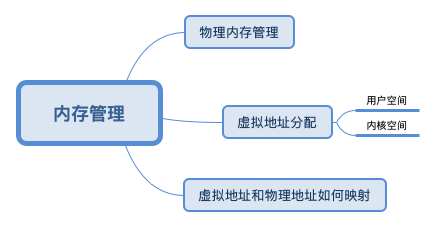
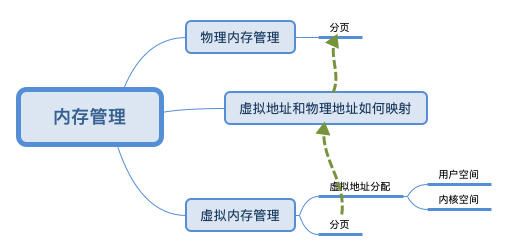
[fix]fix doc

diff --git a/_posts/Technology/Linux/2019-05-31-linux_memory.md b/_posts/Technology/Linux/2019-05-31-linux_memory.md
@@ -1,7 +1,7 @@
 ---
 
 layout: post
-title: Linux内核基础知识
+title: Linux内存管理
 category: 技术
 tags: Linux
 keywords: linux 内核
@@ -60,162 +60,6 @@ keywords: linux 内核
 [线程创建的成本](http://qiankunli.github.io/2014/10/09/Threads.html)
 
 [线程切换的成本](http://qiankunli.github.io/2018/01/07/hardware_software.html)
-
-## 内存管理
-
-对于内存的访问，用户态的进程使用虚拟地址，内核的也基本都是使用虚拟地址
-
-![](/public/upload/linux/linux_memory_management.png)
-
-### 物理内存空间管理
-
-![](/public/upload/linux/linux_physical_memory.jpg)
-
-### 虚拟内存与物理内存的映射
-
-|页面|用户态|内核态|备注|
-|---|---|---|---|
-|在哪|mm_struct|mm_struct|
-|地址映射方式|走四级页表来翻译|线性映射|内核空间也必须有一部分是非线性映射，比如下图的vmalloc|
-|何时创建|随进程创建产生|内核在初始化时，就创建内核空间的映射，所有进程共享|
-
-“进程独占内存”的内涵：每个进程有自己独立的页表映射，当然内核地址空间是一样的，页表映射也是共享的，在创建进程时候，就可以直接“拷贝”内核的页表，作为该进程 的页表的一部分。进程用户地址空间部分另外映射。
-
-
-如果是用户态进程页表，会有 mm_struct 指向进程顶级目录 pgd，对于内核来讲，也定义了一个 mm_struct，指向 swapper_pg_dir（指向内核最顶级的目录 pgd）。
-
-    struct mm_struct init_mm = {
-        .mm_rb		= RB_ROOT,
-        // pgd 页表最顶级目录
-        .pgd		= swapper_pg_dir,
-        .mm_users	= ATOMIC_INIT(2),
-        .mm_count	= ATOMIC_INIT(1),
-        .mmap_sem	= __RWSEM_INITIALIZER(init_mm.mmap_sem),
-        .page_table_lock =  __SPIN_LOCK_UNLOCKED(init_mm.page_table_lock),
-        .mmlist		= LIST_HEAD_INIT(init_mm.mmlist),
-        .user_ns	= &init_user_ns,
-        INIT_MM_CONTEXT(init_mm)
-    };
-
-cr3 是 CPU 的一个寄存器，它会指向当前进程的顶级 pgd。如果 CPU 的指令要访问进程的虚拟内存，它就会自动从cr3 里面得到 pgd 在物理内存的地址，然后根据里面的页表解析虚拟内存的地址为物理内存，从而访问真正的物理内存上的数据。
-
-这里需要注意两点。第一点，cr3 里面存放当前进程的顶级 pgd，这个是硬件的要求。cr3 里面需要存放 pgd 在物理内存的地址，不能是虚拟地址。第二点，用户进程在运行的过程中，访问虚拟内存中的数据，会被 cr3 里面指向的页表转换为物理地址后，才在物理内存中访问数据，这个过程都是在用户态运行的，地址转换的过程无需进入内核态。
-
- 内存管理并不直接分配物理内存，只有等你真正用的那一刻才会开始分配。只有访问虚拟内存的时候，发现没有映射多物理内存，页表也没有创建过，才触发缺页异常。进入内核调用 do_page_fault，一直调用到 __handle_mm_fault，__handle_mm_fault 调用 pud_alloc 和 pmd_alloc，来创建相应的页目录项，最后调用 handle_pte_fault 来创建页表项。
-
-    static noinline void
-    __do_page_fault(struct pt_regs *regs, unsigned long error_code,
-            unsigned long address){
-        struct vm_area_struct *vma;
-        struct task_struct *tsk;
-        struct mm_struct *mm;
-        tsk = current;
-        mm = tsk->mm;
-        // 判断缺页是否发生在内核
-        if (unlikely(fault_in_kernel_space(address))) {
-            if (vmalloc_fault(address) >= 0)
-                return;
-        }
-        ......
-        // 找到待访问地址所在的区域 vm_area_struct
-        vma = find_vma(mm, address);
-        ......
-        fault = handle_mm_fault(vma, address, flags);
-        ......
-
-    static int __handle_mm_fault(struct vm_area_struct *vma, unsigned long address,
-            unsigned int flags){
-        struct vm_fault vmf = {
-            .vma = vma,
-            .address = address & PAGE_MASK,
-            .flags = flags,
-            .pgoff = linear_page_index(vma, address),
-            .gfp_mask = __get_fault_gfp_mask(vma),
-        };
-        struct mm_struct *mm = vma->vm_mm;
-        pgd_t *pgd;
-        p4d_t *p4d;
-        int ret;
-        pgd = pgd_offset(mm, address);
-        p4d = p4d_alloc(mm, pgd, address);
-        ......
-        vmf.pud = pud_alloc(mm, p4d, address);
-        ......
-        vmf.pmd = pmd_alloc(mm, vmf.pud, address);
-        ......
-        return handle_pte_fault(&vmf);
-    }
-
-以handle_pte_fault 的一种场景 do_anonymous_page为例：先通过 pte_alloc 分配一个页表项，然后通过 alloc_zeroed_user_highpage_movable 分配一个页，接下来要调用 mk_pte，将页表项指向新分配的物理页，set_pte_at 会将页表项塞到页表里面。
-
-    static int do_anonymous_page(struct vm_fault *vmf){
-        struct vm_area_struct *vma = vmf->vma;
-        struct mem_cgroup *memcg;
-        struct page *page;
-        int ret = 0;
-        pte_t entry;
-        ......
-        if (pte_alloc(vma->vm_mm, vmf->pmd, vmf->address))
-            return VM_FAULT_OOM;
-        ......
-        page = alloc_zeroed_user_highpage_movable(vma, vmf->address);
-        ......
-        entry = mk_pte(page, vma->vm_page_prot);
-        if (vma->vm_flags & VM_WRITE)
-            entry = pte_mkwrite(pte_mkdirty(entry));
-        vmf->pte = pte_offset_map_lock(vma->vm_mm, vmf->pmd, vmf->address,
-                &vmf->ptl);
-        ......
-        set_pte_at(vma->vm_mm, vmf->address, vmf->pte, entry);
-        ......
-    }
-
-
-### 进程“独占”虚拟内存及虚拟内存划分
-
-为了保证操作系统的稳定性和安全性。用户程序不可以直接访问硬件资源，如果用户程序需要访问硬件资源，必须调用操作系统提供的接口，这个调用接口的过程也就是系统调用。每一次系统调用都会存在两个内存空间之间的相互切换，通常的网络传输也是一次系统调用，通过网络传输的数据先是从内核空间接收到远程主机的数据，然后再**从内核空间复制到用户空间**，供用户程序使用。这种从内核空间到用户空间的数据复制很费时，虽然保住了程序运行的安全性和稳定性，但是牺牲了一部分的效率。
-
-如何分配用户空间和内核空间的比例也是一个问题，是更多地分配给用户空间供用户程序使用，还是首先保住内核有足够的空间来运行。在当前的Windows 32位操作系统中，默认用户空间：内核空间的比例是1:1，而在32位Linux系统中的默认比例是3:1（3GB用户空间、1GB内核空间）（这里只是地址空间，映射到物理地址，可没有某个物理地址的内存只能存储内核态数据或用户态数据的说法）。
-
-||用户地址空间|内核地址空间|备注|
-|---|---|---|---|
-|地址类型|虚拟地址|虚拟地址|都要经过 MMU 的翻译，变成物理地址|
-|生存期|随进程创建产生|持续存在|
-|共享|进程独占|所有进程共享|
-|对应物理空间|分散且不固定|提前固定下来一片连续的物理地址空间，所有进程共享|
-
-![](/public/upload/linux/virtual_memory_space.jpg)
-
-左右两侧均表示虚拟地址空间，左侧以描述内核空间为主，右侧以描述用户空间为主。
-
-|内存区域|日常看到的|
-|---|---|
-|Text Segment<br>Data Segment<br>BSS Segment|Text Segment 是存放二进制可执行代码<br>Data Segment 存放静态常量<br>BSS Segment 存放未初始化的静态变量<br>正是ELF二进制执行文件的三个部分|
-|堆|malloc|
-|Memory Mapping Segment|用来把文件映射进内存用的<br>动态链接库/so文件就是加载到这里|
-|栈|函数栈|
-
-在内核里面也会有内核的代码，同样有 Text Segment、Data Segment 和 BSS Segment，别忘了内核代码也是 ELF 格式的。
-
-### 在代码上的体现
-
-    // 持有task_struct 便可以访问进程在内存中的所有数据
-    struct task_struct {
-        ...
-        struct mm_struct                *mm;
-        struct mm_struct                *active_mm;
-        ...
-        void  *stack;   // 指向内核栈的指针
-    }
-
-内核使用内存描述符mm_struct来表示进程的地址空间，该描述符表示着进程所有地址空间的信息
-
-![](/public/upload/linux/linux_virtual_address.png)
-
-在用户态，进程觉着整个空间是它独占的，没有其他进程存在。但是到了内核里面，无论是从哪个进程进来的，看到的都是同一个内核空间，看到的都是同一个进程列表。虽然内核栈是各用个的，但是如果想知道的话，还是能够知道每个进程的内核栈在哪里的。所以，**如果要访问一些公共的数据结构，需要进行锁保护**。
-
-![](/public/upload/linux/mm_struct.png)
-
 
 
 ## 地址空间内的栈
